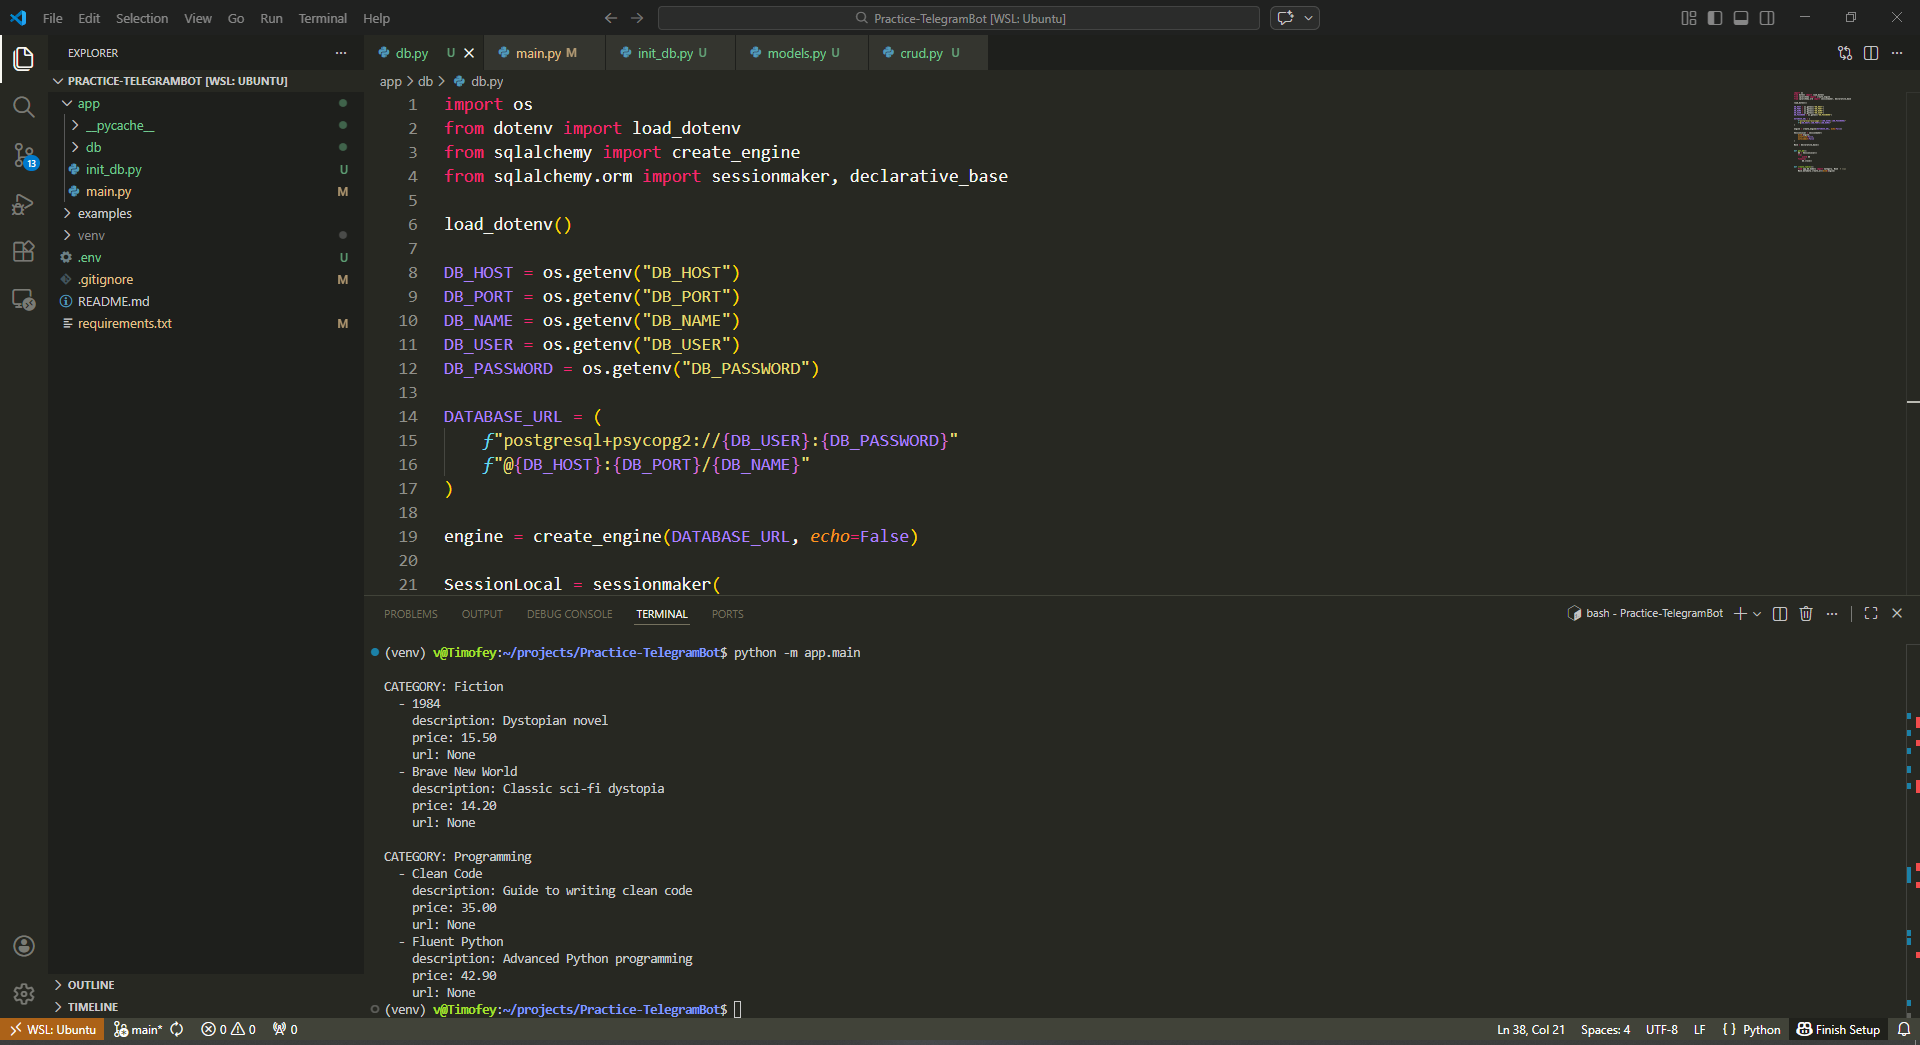
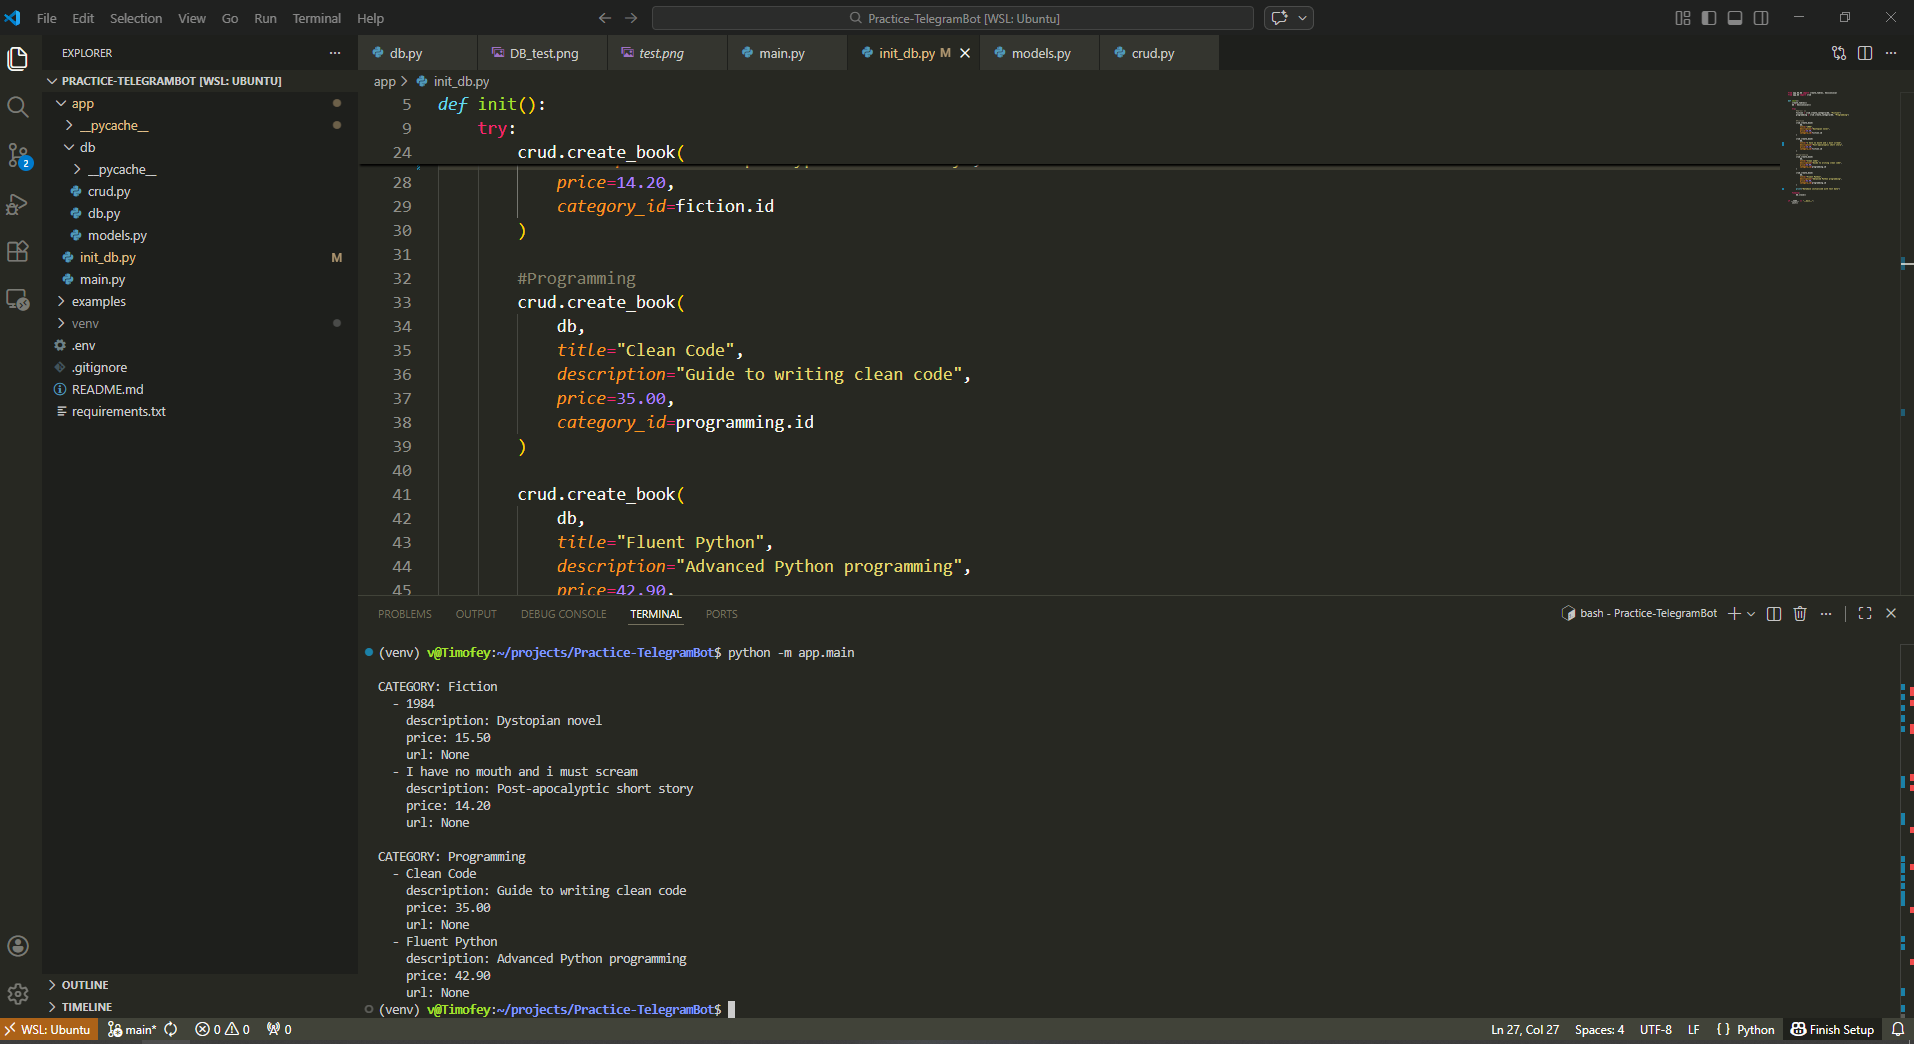
Работа с БД

diff --git a/app/init_db.py b/app/init_db.py
@@ -23,8 +23,8 @@ def init():
 
         crud.create_book(
             db,
-            title="Brave New World",
-            description="Classic sci-fi dystopia",
+            title="I have no mouth and i must scream",
+            description="Post-apocalyptic short story",
             price=14.20,
             category_id=fiction.id
         )
@@ -46,7 +46,7 @@ def init():
             category_id=programming.id
         )
 
-        print("Database initialized with test data ✅")
+        print("Database initialized with test data")
 
     finally:
         db.close()
